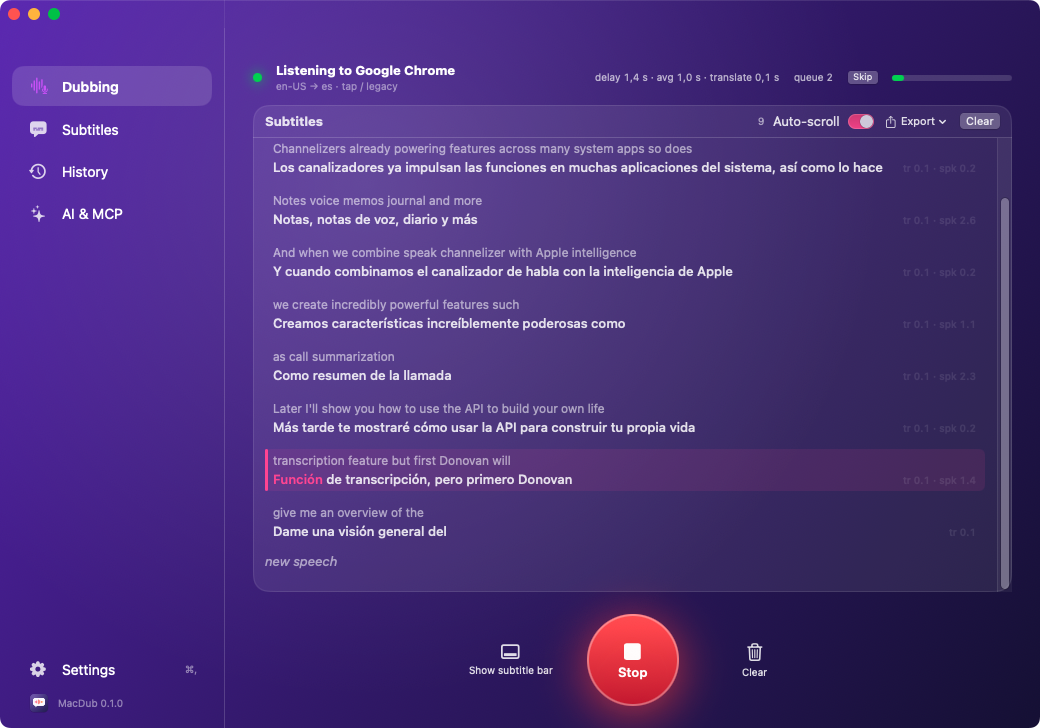
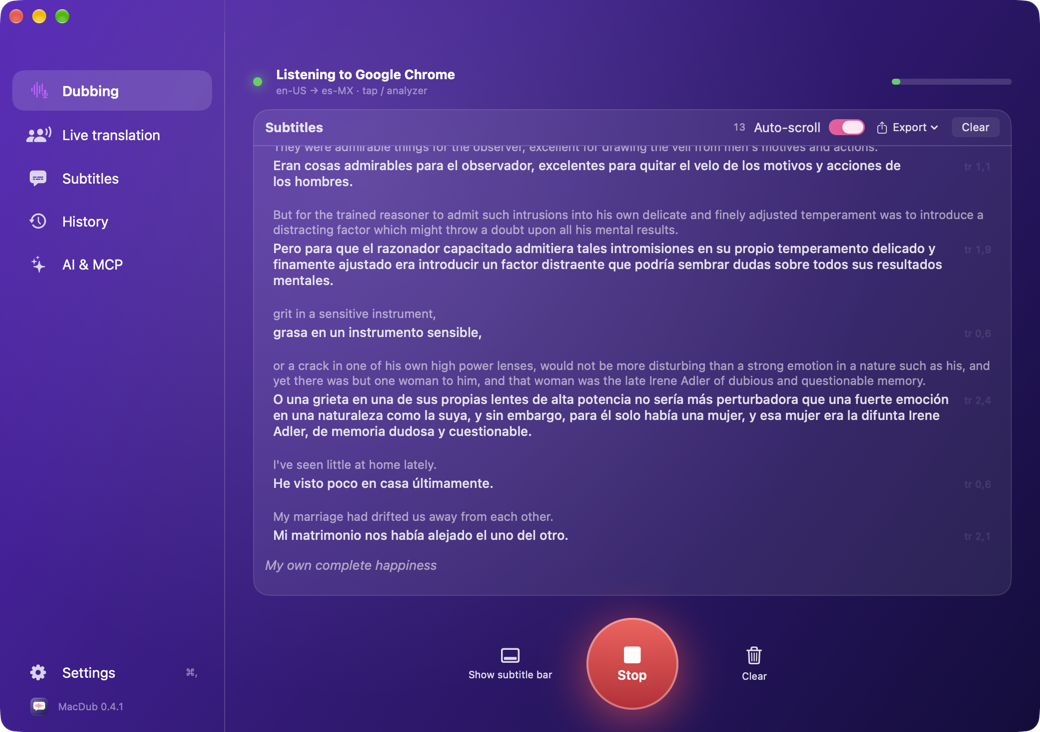
README: English screenshots with live translation; demo mode; fixes
Screenshots (all English, real recognition and translation):
- New: live translation setup and conversation, History › Live
  translation, Settings › Voice (Personal Voice), Settings › Extensions.
- Replaced: dubbing, live transcript, subtitles, History, AI & MCP, menu
  bar panel, subtitle bar, Settings; the tour GIF now covers every screen
  (scripts/make-tour-gif.swift builds it from snapshotUI captures).

- demoDub / demoLive commands: a pipeline fed from an audio file instead
  of the captured app or the microphone (DemoAudioFeeder), for demos and
  screenshots; snapshotUI captures both History tabs.
- Fix: a conversation started by command was not saved (History setup
  now runs for every start).
- Fix: saved sessions kept whole seconds, so History's times per sentence
  read 1,0 / 0,0 s; dates are now written with milliseconds (older files
  still read, tested).
- Fix: "Transcription 0,0 s" for a sentence recognized while its speaker
  was still talking (its end is unknown: not shown).
- CI also runs on the live-translation-pilot branch (the default one).

diff --git a/Sources/MacDub/App/AppState.swift b/Sources/MacDub/App/AppState.swift
@@ -112,6 +112,9 @@ final class AppState: ObservableObject {
 
     private let capture = AudioCaptureManager()
     private let tap = ProcessTapCaptureManager()
+    /// `demoDub`: the next start dubs this file instead of the captured app (screenshots).
+    private var demoAudio: URL?
+    private var demoFeeder: DemoAudioFeeder?
     private let speech: SpeechAndTranslationManager
     private let voice = VoiceSynthesisManager()
     private var cancellables = Set<AnyCancellable>()
@@ -440,6 +443,18 @@ final class AppState: ObservableObject {
                         self.settings.originalVolume = min(1, max(0, level))
                     }
                     if let d = note.userInfo?["duckOnlyWhileSpeaking"] as? String { self.settings.duckOnlyWhileSpeaking = (d == "true") }
+                case .demoDub:
+                    guard let path = note.userInfo?["path"] as? String, self.phase == .idle else { return }
+                    self.demoAudio = URL(fileURLWithPath: path)
+                    self.section = .dub
+                    await self.start()
+                case .demoLive:
+                    guard let me = note.userInfo?["me"] as? String, let them = note.userInfo?["them"] as? String,
+                          self.live.phase == .idle, let target = self.selectedTarget else { return }
+                    self.section = .live
+                    self.live.demoAudio = (URL(fileURLWithPath: me), URL(fileURLWithPath: them))
+                    self.prepareLive()
+                    await self.live.start(target: target)
                 case .startLive:
                     if self.live.phase == .idle { self.section = .live; self.toggleLiveTranslation() }
                 case .stopLive:
@@ -763,19 +778,25 @@ final class AppState: ObservableObject {
             else if live.phase == .idle, phase == .idle, let target = selectedTarget {
                 // The Meet extension talks to MacDub through the local server (virtual
                 // microphone switch, chat).
-                startLiveServer()
-                live.saveSessions = settings.saveSessions
-                live.recordAudio = settings.recordAudio
-                live.onArchive = { [weak self] record in
-                    do {
-                        try SessionStore.save(record)
-                        self?.refreshSessions()
-                        self?.refreshStorageSize()
-                    } catch {
-                        Log.app.error("Could not save the conversation: \(error.localizedDescription, privacy: .public)")
-                    }
-                }
+                prepareLive()
                 await live.start(target: target)
+            }
+        }
+    }
+
+    /// Before any live translation start (button, command, demo): the local server for the Meet
+    /// extension, and History's settings and saving.
+    private func prepareLive() {
+        startLiveServer()
+        live.saveSessions = settings.saveSessions
+        live.recordAudio = settings.recordAudio
+        live.onArchive = { [weak self] record in
+            do {
+                try SessionStore.save(record)
+                self?.refreshSessions()
+                self?.refreshStorageSize()
+            } catch {
+                Log.app.error("Could not save the conversation: \(error.localizedDescription, privacy: .public)")
             }
         }
     }
@@ -940,7 +961,18 @@ final class AppState: ObservableObject {
                 if recording { recorder.append(buffer) }
             }
             notice = nil
-            if settings.usesProcessTap {
+            if let demo = demoAudio {
+                demoAudio = nil
+                demoFeeder = try DemoAudioFeeder(url: demo) { [weak self] buffer, peak in
+                    sink(buffer)
+                    Task { @MainActor [weak self] in
+                        guard let self, Date().timeIntervalSince(self.lastLevelUpdate) > 0.05 else { return }
+                        self.lastLevelUpdate = Date()
+                        self.meter.level = peak
+                    }
+                }
+                activeEngine = "tap"   // shown as a normal session in screenshots
+            } else if settings.usesProcessTap {
                 do {
                     try tap.start(target: target, onBuffer: sink)
                     activeEngine = "tap"
@@ -961,7 +993,8 @@ final class AppState: ObservableObject {
 
             settings.lastTargetBundleID = target.bundleIdentifier
             latency = LatencyStats()
-            startSilenceWatchdog()
+            // A demo feeds a file, not the app: the app's silence means nothing.
+            if demoFeeder == nil { startSilenceWatchdog() }
             phase = .running
             Log.app.info("Pipeline running (\(self.activeEngine ?? "-", privacy: .public)): \(target.name, privacy: .public) \(self.settings.sourceLocaleID, privacy: .public) → \(self.settings.targetLanguageID, privacy: .public)")
         } catch is StartCancelled {
@@ -997,6 +1030,7 @@ final class AppState: ObservableObject {
         stopSilenceWatchdog()
         await capture.stop()
         tap.stop()
+        demoFeeder?.stop(); demoFeeder = nil
         speech.stop()
         voice.stop()
         partialText = ""

diff --git a/Sources/MacDub/Live/LiveTranslationController.swift b/Sources/MacDub/Live/LiveTranslationController.swift
@@ -120,6 +120,10 @@ final class LiveTranslationController: ObservableObject {
     private let defaults = UserDefaults.standard
     private let tap = ProcessTapCaptureManager()
     private var mic: LiveMicrophone?
+    /// `demoLive`: the next start is fed from these files (you, them) instead of the microphone
+    /// and the call app, and your headphones stay silent (screenshots).
+    var demoAudio: (me: URL, them: URL)?
+    private var demoFeeders: [DemoAudioFeeder] = []
     private var toThem: SpeechAndTranslationManager?
     private var fromThem: SpeechAndTranslationManager?
     private var speaker: LiveDeviceSpeaker?
@@ -253,13 +257,23 @@ final class LiveTranslationController: ObservableObject {
             toThem.onPartial = { [weak self] text in Task { @MainActor in self?.setPartial(text, side: .me) } }
             try toThem.start(sourceLocale: me, engineKind: .analyzer)
             self.toThem = toThem
-            let mic = LiveMicrophone(deviceUID: micUID.isEmpty ? nil : micUID) { [weak self, toThem, micRecorder] buffer, peak in
-                toThem.append(buffer)
-                micRecorder.append(buffer)
-                Task { @MainActor in self?.level(mic: peak) }
+            let demo = demoAudio
+            demoAudio = nil
+            if let demo {
+                demoFeeders.append(try DemoAudioFeeder(url: demo.me) { [weak self, toThem, micRecorder] buffer, peak in
+                    toThem.append(buffer)
+                    micRecorder.append(buffer)
+                    Task { @MainActor in self?.level(mic: peak) }
+                })
+            } else {
+                let mic = LiveMicrophone(deviceUID: micUID.isEmpty ? nil : micUID) { [weak self, toThem, micRecorder] buffer, peak in
+                    toThem.append(buffer)
+                    micRecorder.append(buffer)
+                    Task { @MainActor in self?.level(mic: peak) }
+                }
+                try mic.start()
+                self.mic = mic
             }
-            try mic.start()
-            self.mic = mic
 
             // Them → you.
             let fromThem = makeManager()
@@ -269,12 +283,22 @@ final class LiveTranslationController: ObservableObject {
             fromThem.onPartial = { [weak self] text in Task { @MainActor in self?.setPartial(text, side: .them) } }
             try fromThem.start(sourceLocale: them, engineKind: .analyzer)
             self.fromThem = fromThem
-            tap.onLevel = { [weak self] level in Task { @MainActor in self?.level(call: level) } }
-            try tap.start(target: target) { [fromThem, callRecorder] buffer in
-                fromThem.append(buffer)
-                callRecorder.append(buffer)
+            if let demo {
+                demoFeeders.append(try DemoAudioFeeder(url: demo.them) { [weak self, fromThem, callRecorder] buffer, peak in
+                    fromThem.append(buffer)
+                    callRecorder.append(buffer)
+                    Task { @MainActor in self?.level(call: peak) }
+                })
+                myVoice.volume = 0
+            } else {
+                myVoice.volume = 1
+                tap.onLevel = { [weak self] level in Task { @MainActor in self?.level(call: level) } }
+                try tap.start(target: target) { [fromThem, callRecorder] buffer in
+                    fromThem.append(buffer)
+                    callRecorder.append(buffer)
+                }
+                tap.passthroughGain = Float(originalVolume)
             }
-            tap.passthroughGain = Float(originalVolume)
 
             myVoice.onSegmentStarted = { [weak self] id in self?.spoke(id) }
             chatTimer = Timer.scheduledTimer(withTimeInterval: 2, repeats: true) { [weak self] _ in
@@ -297,6 +321,7 @@ final class LiveTranslationController: ObservableObject {
         let wasRunning = phase == .running
         phase = .stopping
         mic?.stop(); mic = nil
+        demoFeeders.forEach { $0.stop() }; demoFeeders.removeAll()
         tap.stop()
         toThem?.stop(); toThem = nil
         fromThem?.stop(); fromThem = nil
@@ -386,7 +411,8 @@ final class LiveTranslationController: ObservableObject {
     private func heard(_ text: String, side: Side, via: Via = .voice, author: String? = nil) {
         guard phase == .running else { return }
         var line = Line(side: side, via: via, author: author, original: text, recognizedAt: Date())
-        if via == .voice { line.speechEndedAt = quietSince[side] ?? loudAt[side] }
+        // Recognized while still speaking (a sentence inside a longer turn): its end is unknown.
+        if via == .voice { line.speechEndedAt = quietSince[side] }
         lines.append(line)
         if lines.count > 300 { lines.removeFirst(lines.count - 300) }
         #if compiler(>=6.2)

diff --git a/scripts/make-tour-gif.swift b/scripts/make-tour-gif.swift
@@ -1,0 +1,48 @@
+#!/usr/bin/env swift
+// Builds the README's animated tour from screenshots (ImageIO only, no dependencies):
+//
+//   swift scripts/make-tour-gif.swift images/macdub-tour.gif 1200 750 2.2 shot1.png shot2.png …
+//
+// Every frame is width × height: each screenshot is scaled to fit and centred on a dark
+// background, so the window captures and the smaller Settings / menu bar ones mix well.
+import AppKit
+import ImageIO
+import UniformTypeIdentifiers
+
+let args = CommandLine.arguments
+guard args.count > 5, let width = Int(args[2]), let height = Int(args[3]), let delay = Double(args[4]) else {
+    print("usage: make-tour-gif.swift out.gif width height seconds-per-frame shots…")
+    exit(2)
+}
+let output = URL(fileURLWithPath: args[1])
+let shots = args.dropFirst(5).map { URL(fileURLWithPath: $0) }
+
+guard let destination = CGImageDestinationCreateWithURL(output as CFURL, UTType.gif.identifier as CFString, shots.count, nil) else {
+    print("cannot write \(output.path)")
+    exit(1)
+}
+CGImageDestinationSetProperties(destination, [kCGImagePropertyGIFDictionary: [kCGImagePropertyGIFLoopCount: 0]] as CFDictionary)
+let frameProperties = [kCGImagePropertyGIFDictionary: [kCGImagePropertyGIFDelayTime: delay]] as CFDictionary
+
+let space = CGColorSpaceCreateDeviceRGB()
+for shot in shots {
+    guard let source = CGImageSourceCreateWithURL(shot as CFURL, nil),
+          let image = CGImageSourceCreateImageAtIndex(source, 0, nil),
+          let context = CGContext(data: nil, width: width, height: height, bitsPerComponent: 8, bytesPerRow: 0,
+                                  space: space, bitmapInfo: CGImageAlphaInfo.premultipliedLast.rawValue) else {
+        print("skipping \(shot.lastPathComponent)")
+        continue
+    }
+    context.setFillColor(CGColor(red: 0.09, green: 0.07, blue: 0.14, alpha: 1))
+    context.fill(CGRect(x: 0, y: 0, width: width, height: height))
+    let scale = min(Double(width) / Double(image.width), Double(height) / Double(image.height))
+    let w = Double(image.width) * scale, h = Double(image.height) * scale
+    context.interpolationQuality = .high
+    context.draw(image, in: CGRect(x: (Double(width) - w) / 2, y: (Double(height) - h) / 2, width: w, height: h))
+    if let frame = context.makeImage() { CGImageDestinationAddImage(destination, frame, frameProperties) }
+}
+guard CGImageDestinationFinalize(destination) else {
+    print("failed to write \(output.path)")
+    exit(1)
+}
+print("✔ \(output.path) (\(shots.count) frames)")

diff --git a/Sources/MacDub/Support/DemoAudioFeeder.swift b/Sources/MacDub/Support/DemoAudioFeeder.swift
@@ -1,0 +1,47 @@
+import Foundation
+import AVFAudio
+
+/// Plays an audio file into a pipeline in real time, as if it came from the microphone or the
+/// captured app: MacDub's capture format (mono float32, 48 kHz, 1024-frame buffers). For demos
+/// and README screenshots with real recognition and translation (the `demoDub` / `demoLive`
+/// commands), like the recognition benchmark does headless.
+final class DemoAudioFeeder {
+    private var task: Task<Void, Never>?
+
+    /// Feeds `url` from the start; `onBuffer` gets each buffer and its peak level.
+    init(url: URL, onBuffer: @escaping @Sendable (AVAudioPCMBuffer, Float) -> Void) throws {
+        let file = try AVAudioFile(forReading: url)
+        let format = AVAudioFormat(standardFormatWithSampleRate: 48_000, channels: 1)!
+        guard let converter = AVAudioConverter(from: file.processingFormat, to: format) else {
+            throw CocoaError(.fileReadCorruptFile)
+        }
+        let inRate = file.processingFormat.sampleRate
+        task = Task.detached(priority: .userInitiated) {
+            let clock = ContinuousClock()
+            let start = clock.now
+            var fed = 0.0
+            while !Task.isCancelled, file.framePosition < file.length {
+                let frames = AVAudioFrameCount(1024 * inRate / 48_000)
+                guard let input = AVAudioPCMBuffer(pcmFormat: file.processingFormat, frameCapacity: frames),
+                      (try? file.read(into: input, frameCount: frames)) != nil, input.frameLength > 0,
+                      let output = AVAudioPCMBuffer(pcmFormat: format, frameCapacity: 1024 + 64) else { break }
+                var consumed = false
+                converter.convert(to: output, error: nil) { _, status in
+                    if consumed { status.pointee = .noDataNow; return nil }
+                    consumed = true; status.pointee = .haveData; return input
+                }
+                let due = start + .seconds(fed)
+                if due > clock.now { try? await Task.sleep(until: due, clock: clock) }
+                var peak: Float = 0
+                if let ch = output.floatChannelData { for i in 0..<Int(output.frameLength) { peak = max(peak, abs(ch[0][i])) } }
+                onBuffer(output, peak)
+                fed += Double(output.frameLength) / 48_000
+            }
+        }
+    }
+
+    func stop() {
+        task?.cancel()
+        task = nil
+    }
+}

diff --git a/Sources/MacDubCore/SessionStore.swift b/Sources/MacDubCore/SessionStore.swift
@@ -149,18 +149,33 @@ public enum MacDubPaths {
 public enum SessionStore {
     public static var directory: URL { LiveStateStore.directory.appendingPathComponent("sessions", isDirectory: true) }
 
+    // ISO 8601 with milliseconds: live translation times each step in tenths of a second, which
+    // whole seconds erased. Files written before have no fraction and still read.
     private static let encoder: JSONEncoder = {
         let e = JSONEncoder()
-        e.dateEncodingStrategy = .iso8601
+        e.dateEncodingStrategy = .custom { date, encoder in
+            var c = encoder.singleValueContainer()
+            try c.encode(fractional().string(from: date))
+        }
         e.outputFormatting = [.sortedKeys, .prettyPrinted]
         return e
     }()
 
     private static let decoder: JSONDecoder = {
         let d = JSONDecoder()
-        d.dateDecodingStrategy = .iso8601
+        d.dateDecodingStrategy = .custom { decoder in
+            let text = try decoder.singleValueContainer().decode(String.self)
+            if let date = fractional().date(from: text) ?? ISO8601DateFormatter().date(from: text) { return date }
+            throw DecodingError.dataCorrupted(.init(codingPath: decoder.codingPath, debugDescription: "not an ISO 8601 date: \(text)"))
+        }
         return d
     }()
+
+    private static func fractional() -> ISO8601DateFormatter {
+        let f = ISO8601DateFormatter()
+        f.formatOptions = [.withInternetDateTime, .withFractionalSeconds]
+        return f
+    }
 
     /// Session ids are UUIDs. Ids arrive from MCP clients too, so anything else — "../../Claude/
     /// claude_desktop_config" would have deleted another app's settings — is refused before it

diff --git a/Sources/MacDub/Support/UISnapshots.swift b/Sources/MacDub/Support/UISnapshots.swift
@@ -38,14 +38,20 @@ enum UISnapshots {
                         try? await Task.sleep(for: .milliseconds(700))
                         await saveWindow(window, "\(prefix)-main-\(section.rawValue)-\(Int(size.width))x\(Int(size.height))", in: dir)
                     }
-                    // History again with the newest session open (player, spectrum, transcript).
-                    if let newest = state.sessions.first?.id {
+                    // History again with the newest session of each tab open (player, spectrum,
+                    // transcript; a conversation for live translation).
+                    let originalTab = UserDefaults.standard.string(forKey: "historyTab")
+                    for (tab, name) in [(HistoryTab.dubbing, "session"), (HistoryTab.live, "live-session")] {
+                        UserDefaults.standard.set(tab.rawValue, forKey: "historyTab")
                         state.section = .history
+                        try? await Task.sleep(for: .milliseconds(500))
+                        guard let newest = state.sessions.first(where: { $0.isLive == (tab == .live) })?.id else { continue }
                         state.historySelection = newest
                         try? await Task.sleep(for: .milliseconds(1500))
-                        await saveWindow(window, "\(prefix)-main-history-session-\(Int(size.width))x\(Int(size.height))", in: dir)
+                        await saveWindow(window, "\(prefix)-main-history-\(name)-\(Int(size.width))x\(Int(size.height))", in: dir)
                         state.historySelection = nil
                     }
+                    UserDefaults.standard.set(originalTab, forKey: "historyTab")
                 }
             }
 

diff --git a/Tests/Runner/HistoryAudioTests.swift b/Tests/Runner/HistoryAudioTests.swift
@@ -161,3 +161,19 @@ import MacDubCore
         #expect(txt.contains("Them (Ana): Nice to meet you"))
     }
 }
+
+@Suite struct SessionDatePrecisionTests {
+    @Test func savedTimesKeepTenthsOfASecond() throws {
+        let start = Date(timeIntervalSince1970: 1_790_000_000.25)
+        var s = Segment(original: "Hola", translated: "Hello", recognizedAt: start.addingTimeInterval(1.37))
+        s.speechEndedAt = start.addingTimeInterval(0.42)
+        let id = "precision-test-\(UUID().uuidString.prefix(8))"
+        let record = SessionRecord(id: id, startedAt: start, appName: nil, appBundleIdentifier: nil,
+                                   sourceLocale: "es-MX", targetLanguage: "en-US", segments: [s], kind: SessionRecord.liveKind)
+        try SessionStore.save(record)
+        defer { try? SessionStore.delete(id: id) }
+        let back = try SessionStore.load(id: id)
+        let dto = back.segments[0]
+        #expect(abs(dto.recognizedAt.timeIntervalSince(dto.speechEndedAt!) - 0.95) < 0.01)
+    }
+}

diff --git a/Sources/MacDubCore/LiveState.swift b/Sources/MacDubCore/LiveState.swift
@@ -154,6 +154,8 @@ public enum MacDubCommand {
         case exportAudio       // seconds, path → the app writes a 16 kHz mono WAV of the last N seconds
         case snapshotUI        // path, label → PNGs of every screen (light + dark), then <label>.done
         case startLive, stopLive  // live translation with its current settings (testing, automation)
+        case demoDub           // path: dub an audio file instead of the captured app (screenshots)
+        case demoLive          // me, them: live translation fed from two audio files (screenshots)
     }
 
     public static func post(_ action: Action, bundleIdentifier: String? = nil, values: [String: String] = [:]) {
